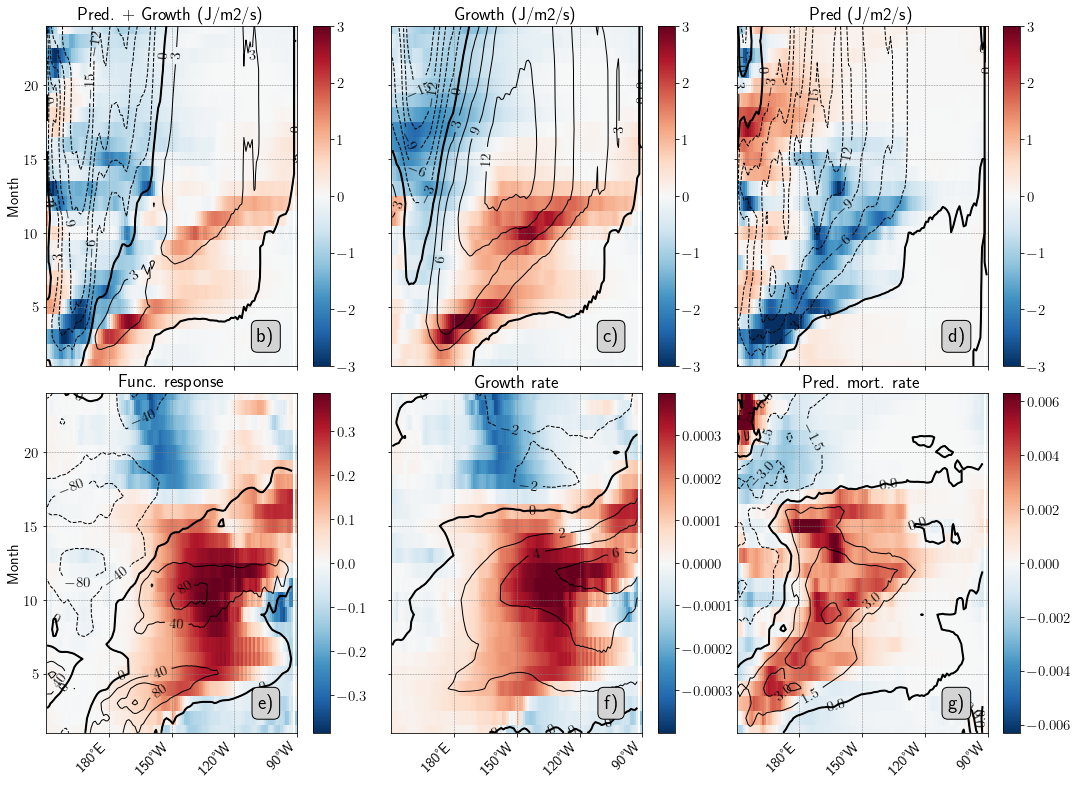
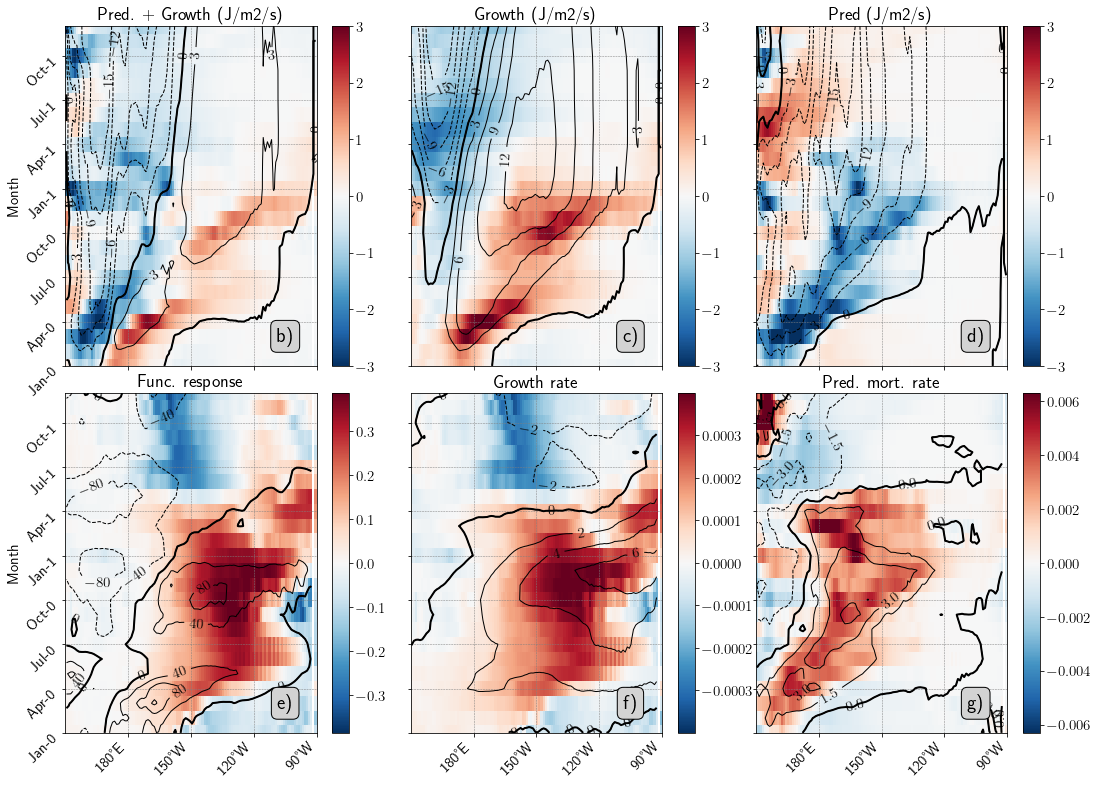
Update figures

diff --git a/scripts/new-97/fig7.py b/scripts/new-97/fig7.py
@@ -108,7 +108,8 @@ def plot(ax, toplot, wstep, contour=True, levels=None, clim=None, trend=True):
     ax.set_xticks(xticks)
     plt.setp(ax.get_xticklabels(), ha='right', rotation=45)
     ax.set_ylim(time.min(), time.max())
-    ax.set_ylabel('Month')
+    ax.set_yticks(time[::3])
+    ax.set_yticklabels(tlabels[::3], va='top', rotation=45)
     return cs, None
 
 
@@ -144,6 +145,10 @@ def read_pisces_variable(varname, zmax=50, anom=False):
     return thetao
 
 
+months = ['Jan', 'Feb', 'Mar', 'Apr', 'May', 'Jun', 'Jul', 'Aug', 'Sep', 'Oct', 'Nov', 'Dec']
+tlabels = ['%s-%d' %(m, y) for y in [0, 1] for m in months]
+tlabels
+
 # +
 fig = plt.figure(figsize=(13, 14), facecolor='white')
 plt.rcParams['font.size'] = 15
@@ -167,7 +172,7 @@ axgr = ImageGrid(fig, 111, nrows_ncols=(3, 3), axes_pad=(0.7, 0.3), cbar_pad=0.1
 ccc = 150
 cpt = -1
 
-wstep_l0 = float(wstep.sel(l=l0, method='nearest'))
+#wstep_l0 = float(wstep.sel(l=l0, method='nearest'))
 cprop = {}
 cprop['colors'] = 'k'
 cprop['linewidths']= 1

diff --git a/scripts/new-97/fig8.py b/scripts/new-97/fig8.py
@@ -108,6 +108,11 @@ def plot(ax, toplot, wstep, contour=True, levels=None, clim=None, trend=True):
     ax.set_xticks(xticks)
     plt.setp(ax.get_xticklabels(), ha='right', rotation=45)
     ax.set_ylim(time.min(), time.max())
+    months = ['Jan', 'Feb', 'Mar', 'Apr', 'May', 'Jun', 'Jul', 'Aug', 'Sep', 'Oct', 'Nov', 'Dec']
+    tlabels = ['%s-%d' %(m, y) for y in [0, 1] for m in months]
+    tlabels
+    ax.set_yticks(time[::3])
+    ax.set_yticklabels(tlabels[::3], va='top', rotation=45)
 #     ax.set_ylabel('Month')
     return cs, None
 

diff --git a/scripts/new-97/fig9.py b/scripts/new-97/fig9.py
@@ -109,6 +109,11 @@ def plot(ax, toplot, wstep, contour=True, levels=None, clim=None, trend=True):
     plt.setp(ax.get_xticklabels(), ha='right', rotation=45)
     ax.set_ylim(time.min(), time.max())
 #     ax.set_ylabel('Month')
+    months = ['Jan', 'Feb', 'Mar', 'Apr', 'May', 'Jun', 'Jul', 'Aug', 'Sep', 'Oct', 'Nov', 'Dec']
+    tlabels = ['%s-%d' %(m, y) for y in [0, 1] for m in months]
+    tlabels
+    ax.set_yticks(time[::3])
+    ax.set_yticklabels(tlabels[::3], va='top', rotation=45)
     return cs, None
 
 
